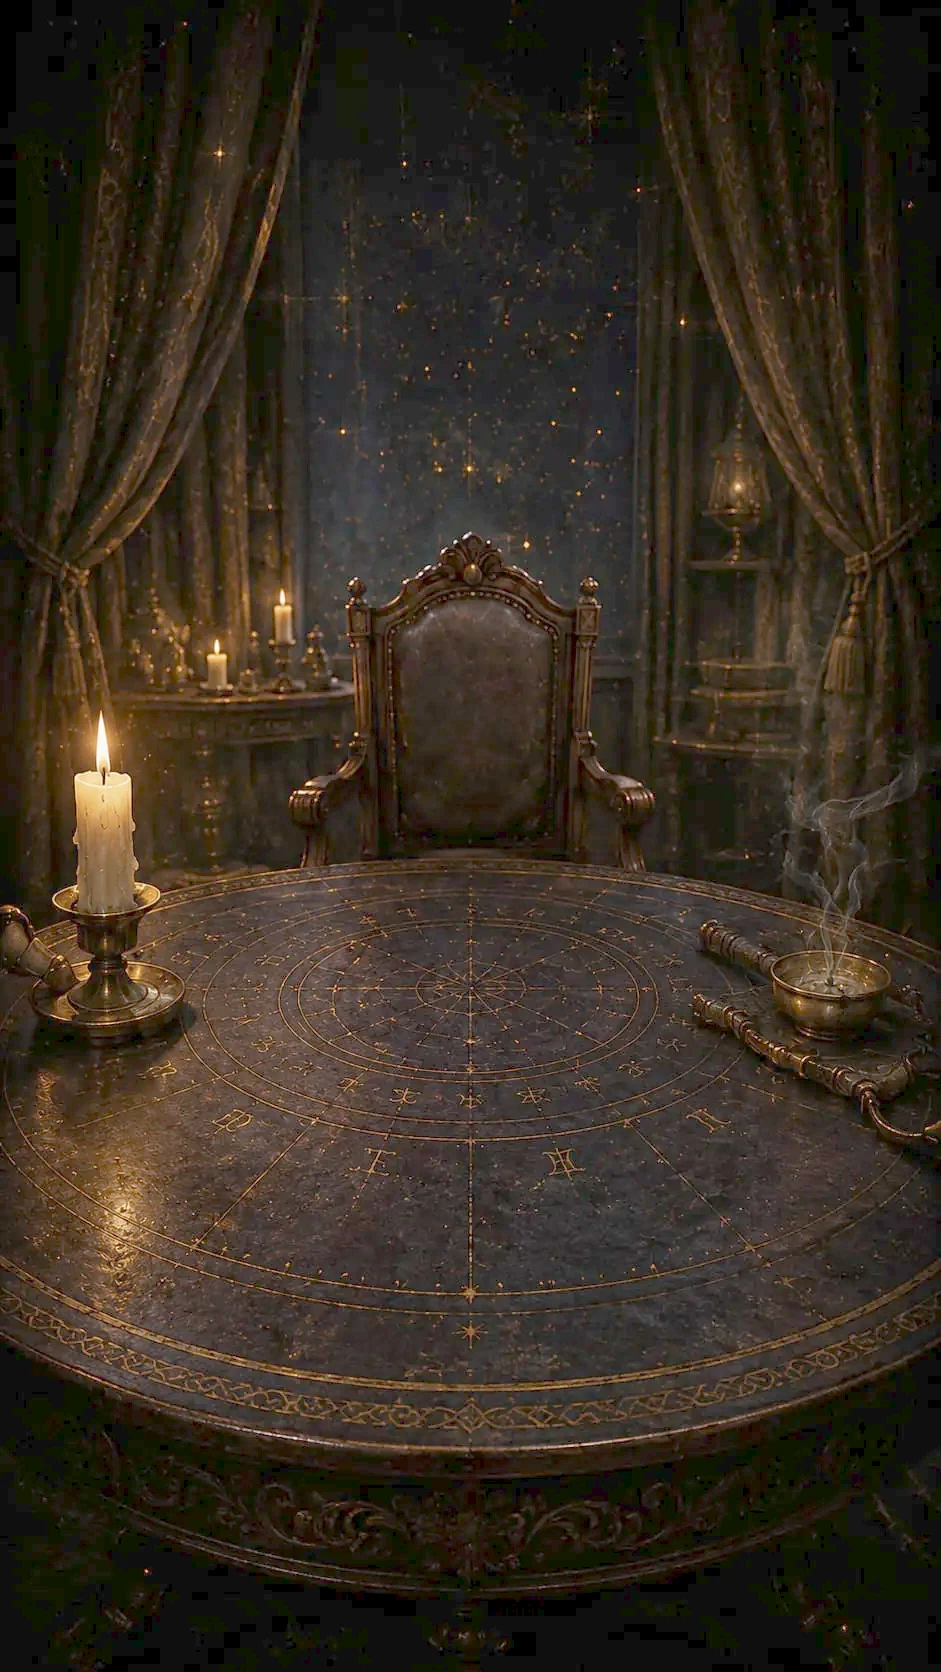
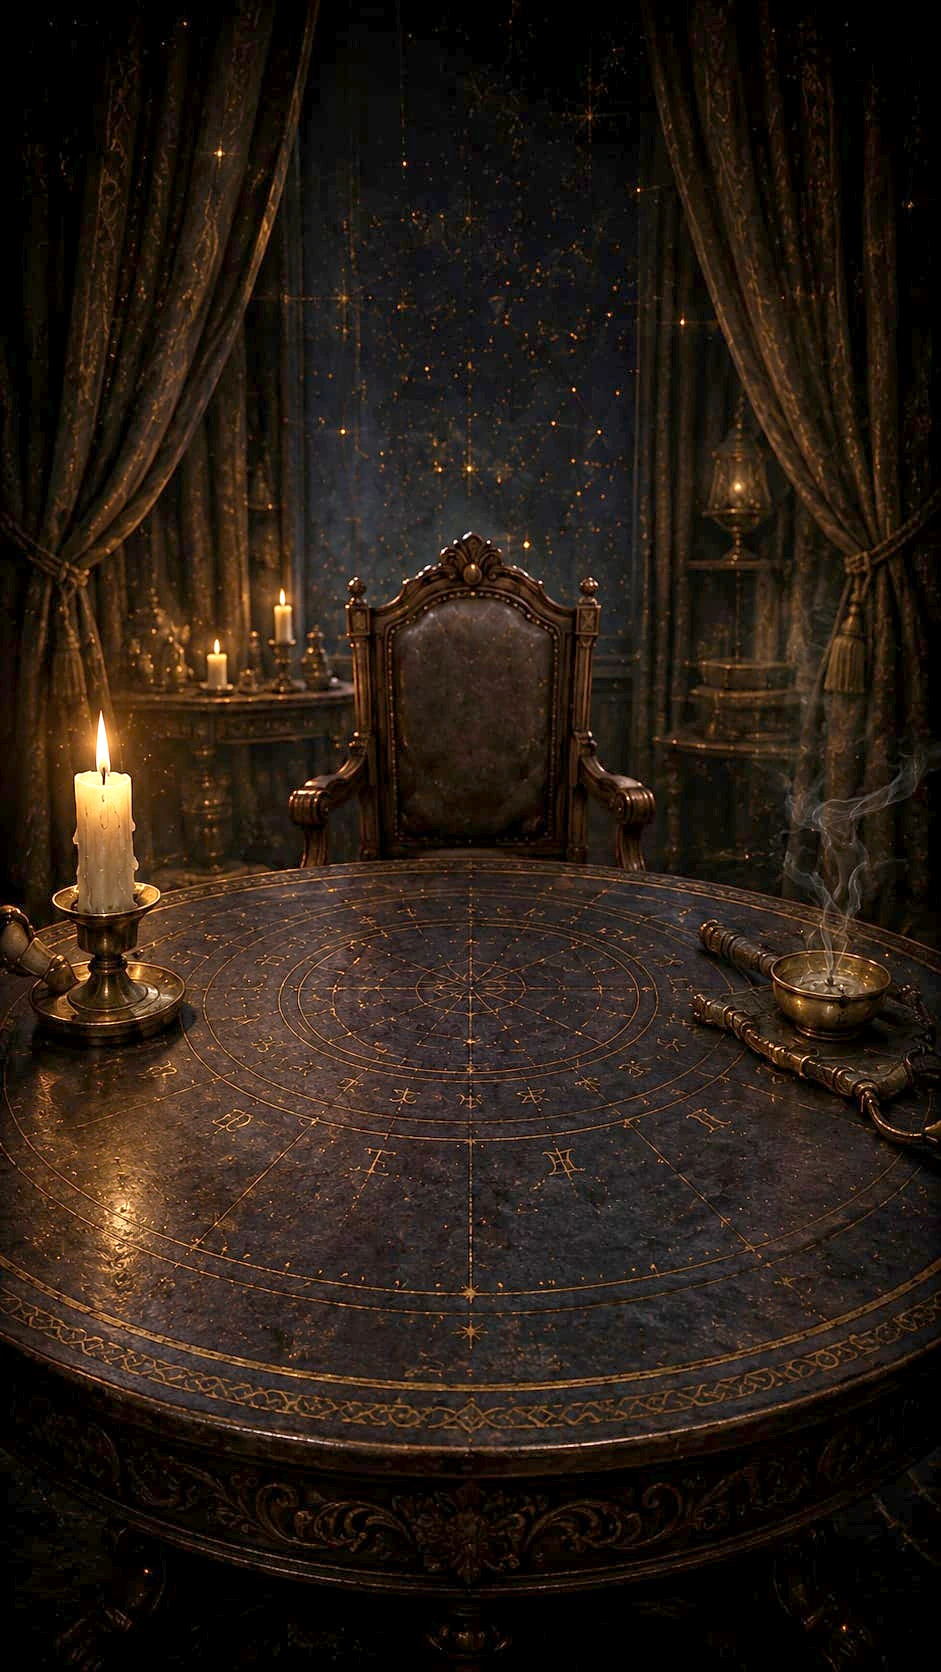
Replace flat gamma lift with gamma+contrast to restore depth
Gamma 2.0 alone lifted every shadow value uniformly and left nothing
pushing the black point back down, so the scene read as a flat gray
wash instead of a moody dark room -- exactly the "washed out" look
that doesn't match the reference art direction's punchier blacks and
gold highlights.

Switched to a gentler gamma (1.6) followed by a contrast enhance
(pivoted on the image's own mean, factor 1.25) so shadows deepen back
toward black and highlights push back up after the midtone lift, while
table etching/chair detail/curtain texture stay visible.

diff --git a/docs/asset-sources/main-menu-v2/README.md b/docs/asset-sources/main-menu-v2/README.md
@@ -49,10 +49,13 @@ sit close together in brightness. See `manifest.json`'s `"alpha"` field.
 the source photo is very underexposed as delivered (mean brightness
 12/255, 83% of pixels below 20/255), which read as "the menu is too dark"
 once shipped as-is with only a CSS vignette on top. The shipped copy has a
-gamma correction applied (gamma 2.0: `output = 255*(input/255)^(1/2.0)`,
-same curve per RGB channel) to lift shadow/midtone visibility — table
-etching, chair detail, curtains — without clipping the candle-flame
-highlights, which a flat linear `brightness()` multiply strong enough to
-matter would have blown out well before the shadows became visible.
-`background.jpeg` stays the untouched reference; regenerate the shipped
-asset from it if the gamma value ever needs revisiting.
+tone curve applied — gamma 1.6 (`output = 255*(input/255)^(1/1.6)`, same
+curve per RGB channel) followed by a contrast enhance (PIL
+`ImageEnhance.Contrast`, factor 1.25, pivoted on the image's own mean) —
+to lift shadow/midtone visibility (table etching, chair detail, curtains)
+while pushing true blacks back down and highlights back up afterward, so
+the scene keeps its depth instead of reading as a flat gray wash. An
+earlier pass used gamma 2.0 alone; that lifted every shadow uniformly
+with nothing pushing the black point back down, which is exactly what
+read as "washed out." `background.jpeg` stays the untouched reference;
+regenerate the shipped asset from it if this curve ever needs revisiting.